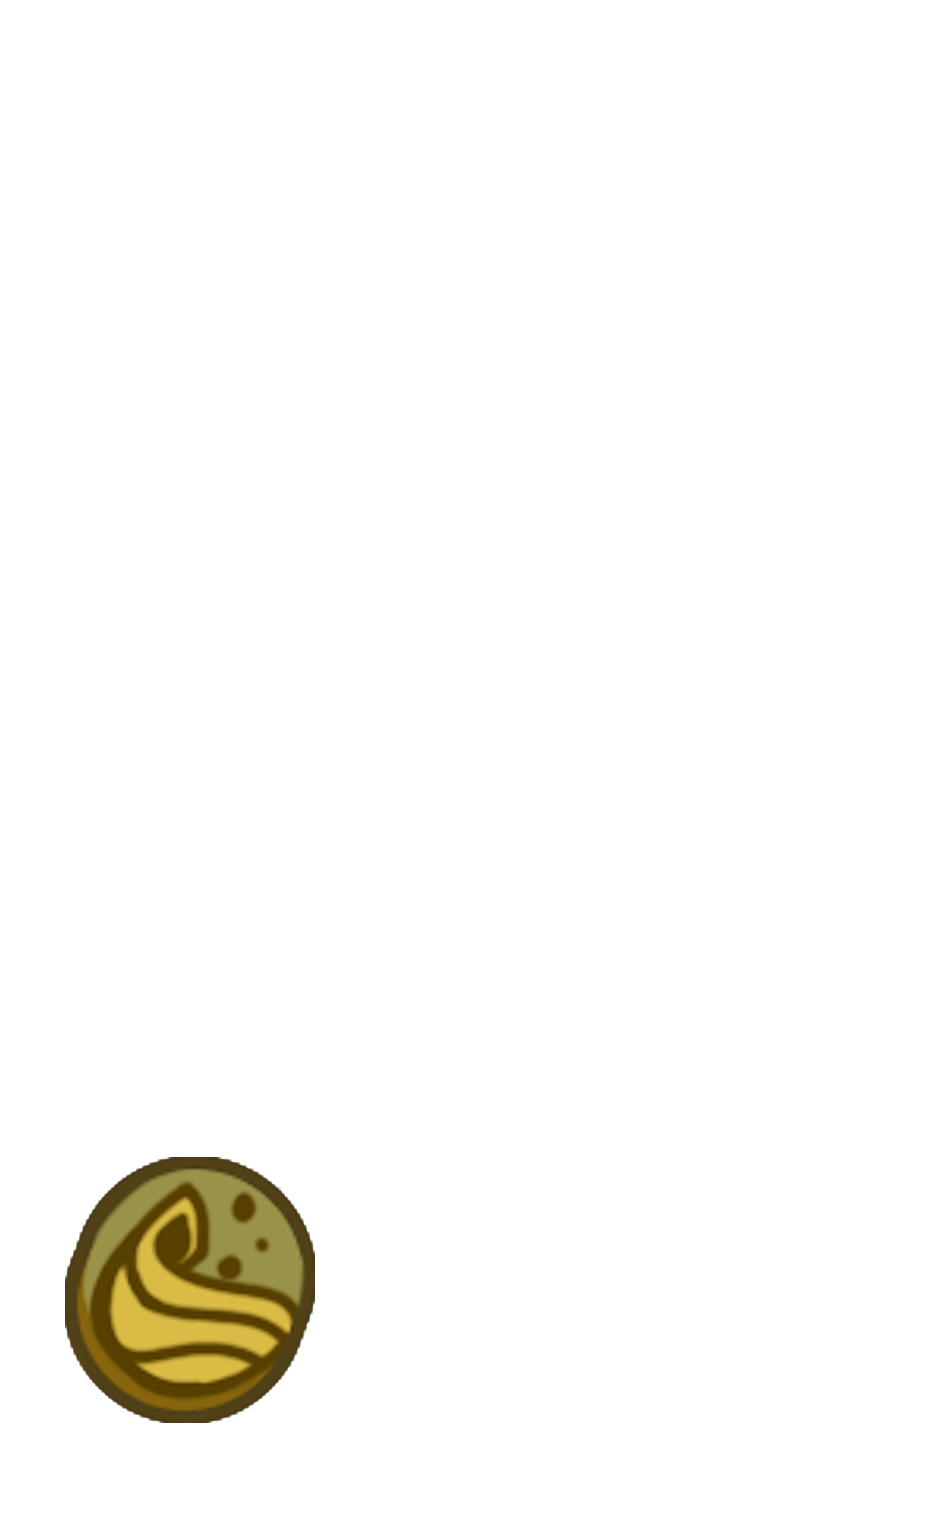
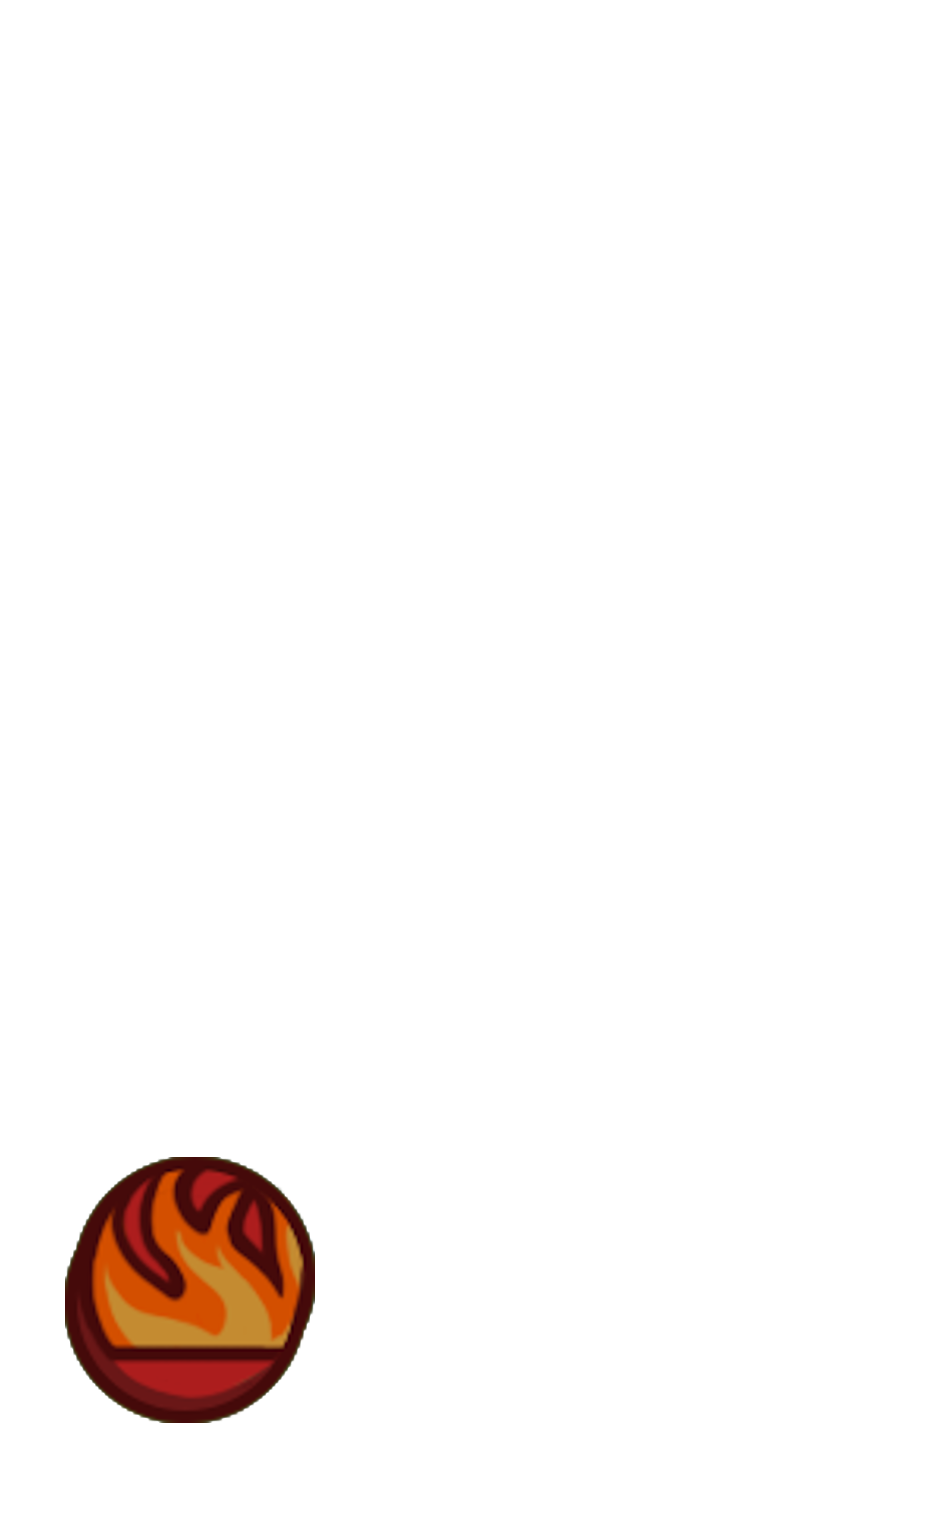
Novos sprites de jogadores, terceiro jogador adicionado, sprites de habilidade diferentes

Changed region(s): [[0.0614, 0.7495, 0.3376, 0.9369]]

diff --git a/src/Card.cpp b/src/Card.cpp
@@ -25,16 +25,19 @@ Card::Card(std::shared_ptr<GameObject> associated, std::string file, int num, in
     this->playerNum = num;
     this->acted = false;
     this->attackPower = attackPower;
-    this->skills[0] = 0;
-    this->skills[1] = 1;
+
+    if(this->playerNum > 0) {
+        // Pega o id das habilidades, baseado na carta utilizada
+        int skillId = file[file.size() - 5] - '0';
+        this->skills[0] = skillId * 2;
+        this->skills[1] = skillId * 2 - 1;
+        this->skillIcon0.Open(SKILL_PATH + std::to_string(skills[0]) + "r.png");
+        this->skillIcon1.Open(SKILL_PATH + std::to_string(skills[1]) + "l.png");
+    }
 
     this->angle = randReal(-2.0f, 2.0f);
     this->sprite.SetAngle(this->angle);
     this->lifeBar.Open(LIFE_PATH + std::to_string(hp) + ".png");
-    if(this->playerNum > 0) {
-        this->skillIcon0.Open(SKILL_PATH + std::to_string(skills[0]) + "r.png");
-        this->skillIcon1.Open(SKILL_PATH + std::to_string(skills[1]) + "l.png");
-    }
     this->SetScale();
 }
 

diff --git a/src/CardSkill.cpp b/src/CardSkill.cpp
@@ -16,17 +16,17 @@ bool CardSkill::IsPassive(int id) {
 }
 
 bool CardSkill::Run(int id, Vec2Int pos, Card* source, std::weak_ptr<Card> lastTarget) {
+  auto target = Board::GetInstance().GetCard(pos);
   switch (id) {
-  case 0:
-    if(!lastTarget.expired() && !lastTarget.lock()->isDead) {
-      CardSkill::DoubleDamage(lastTarget.lock().get(), source);
+  case 1:
+    if(target != nullptr && !target->isDead) {
+      CardSkill::HealCard(target.get());
       return true;
     }
     break;
-  case 1:
-    auto target = Board::GetInstance().GetCard(pos);
-    if(target != nullptr && !target->isDead) {
-      CardSkill::HealCard(target.get());
+  case 3:
+    if(!lastTarget.expired() && !lastTarget.lock()->isDead) {
+      CardSkill::DoubleDamage(lastTarget.lock().get(), source);
       return true;
     }
     break;

diff --git a/src/TitleState.cpp b/src/TitleState.cpp
@@ -18,6 +18,7 @@
 using std::cout;
 using std::endl;
 using std::make_shared;
+
 void TitleState::Update(int dt) {
     (void)dt;
     InputManager &input = InputManager::GetInstance();
@@ -60,7 +61,7 @@ void TitleState::Update(int dt) {
             case Continue:
                 break;
             case NewGame:
-                GameData::playersCount = 2;
+                GameData::playersCount = 3;
                 Game::GetInstance().Push(make_shared<MapState>());
                 break;
             case Options:

diff --git a/src/Stages.cpp b/src/Stages.cpp
@@ -13,7 +13,7 @@ void Stages::CreatePlayers(std::shared_ptr<StageState> newStage) {
         std::shared_ptr<Player> newPlayer = std::make_shared<Player>(playerGO, PLAYER_PATH + std::to_string(i) + ".png", i);
         playerGO->AddComponent(newPlayer);
         newStage->AddObject(playerGO);
-        Action::Move(newStage->board.GetCard(i).get(), {i, 1});
+        Action::Move(newStage->board.GetCard(i).get(), {i - (GameData::playersCount > 2), 1});
         GameData::players.push_back(newPlayer);
     }
 }

diff --git a/include/Control.h b/include/Control.h
@@ -2,8 +2,8 @@
 
 #include <InputManager.h>
 
-int buttonUp[4] = {'w', UP_ARROW_KEY};
-int buttonDown[4] = {'s', DOWN_ARROW_KEY};
-int buttonLeft[4] = {'a', LEFT_ARROW_KEY};
-int buttonRight[4] = {'d', RIGHT_ARROW_KEY};
-int buttonAttack[4] = {'k', ' '};
+int buttonUp[4] = {'w', UP_ARROW_KEY, 'i'};
+int buttonDown[4] = {'s', DOWN_ARROW_KEY, 'k'};
+int buttonLeft[4] = {'a', LEFT_ARROW_KEY, 'j'};
+int buttonRight[4] = {'d', RIGHT_ARROW_KEY, 'l'};
+int buttonAttack[4] = {'q', ' ', 'u'};
